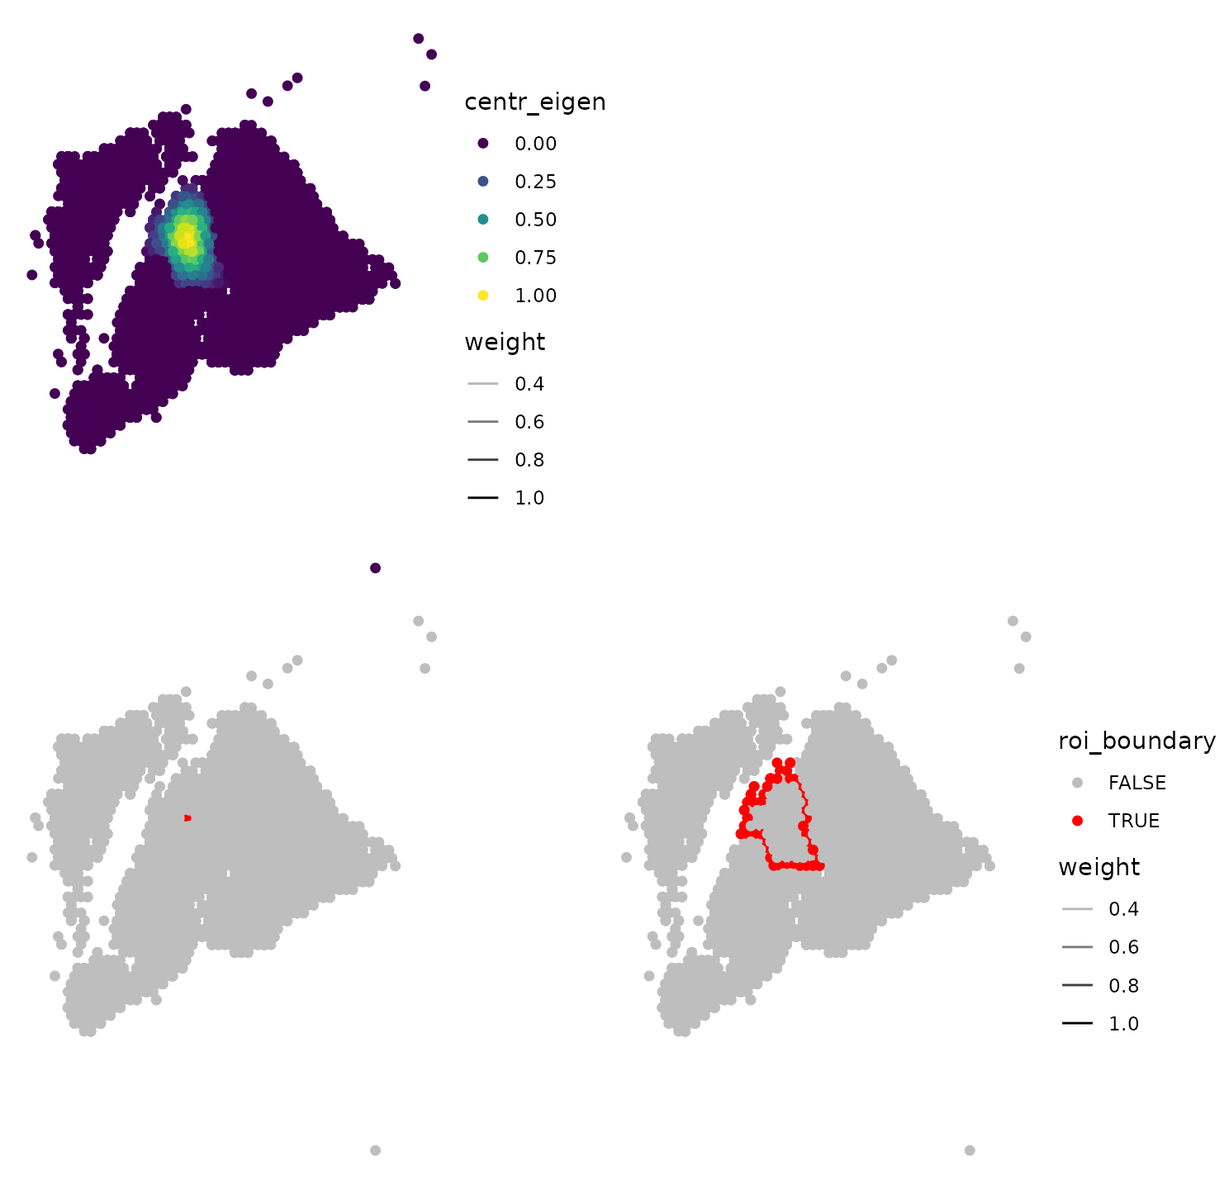
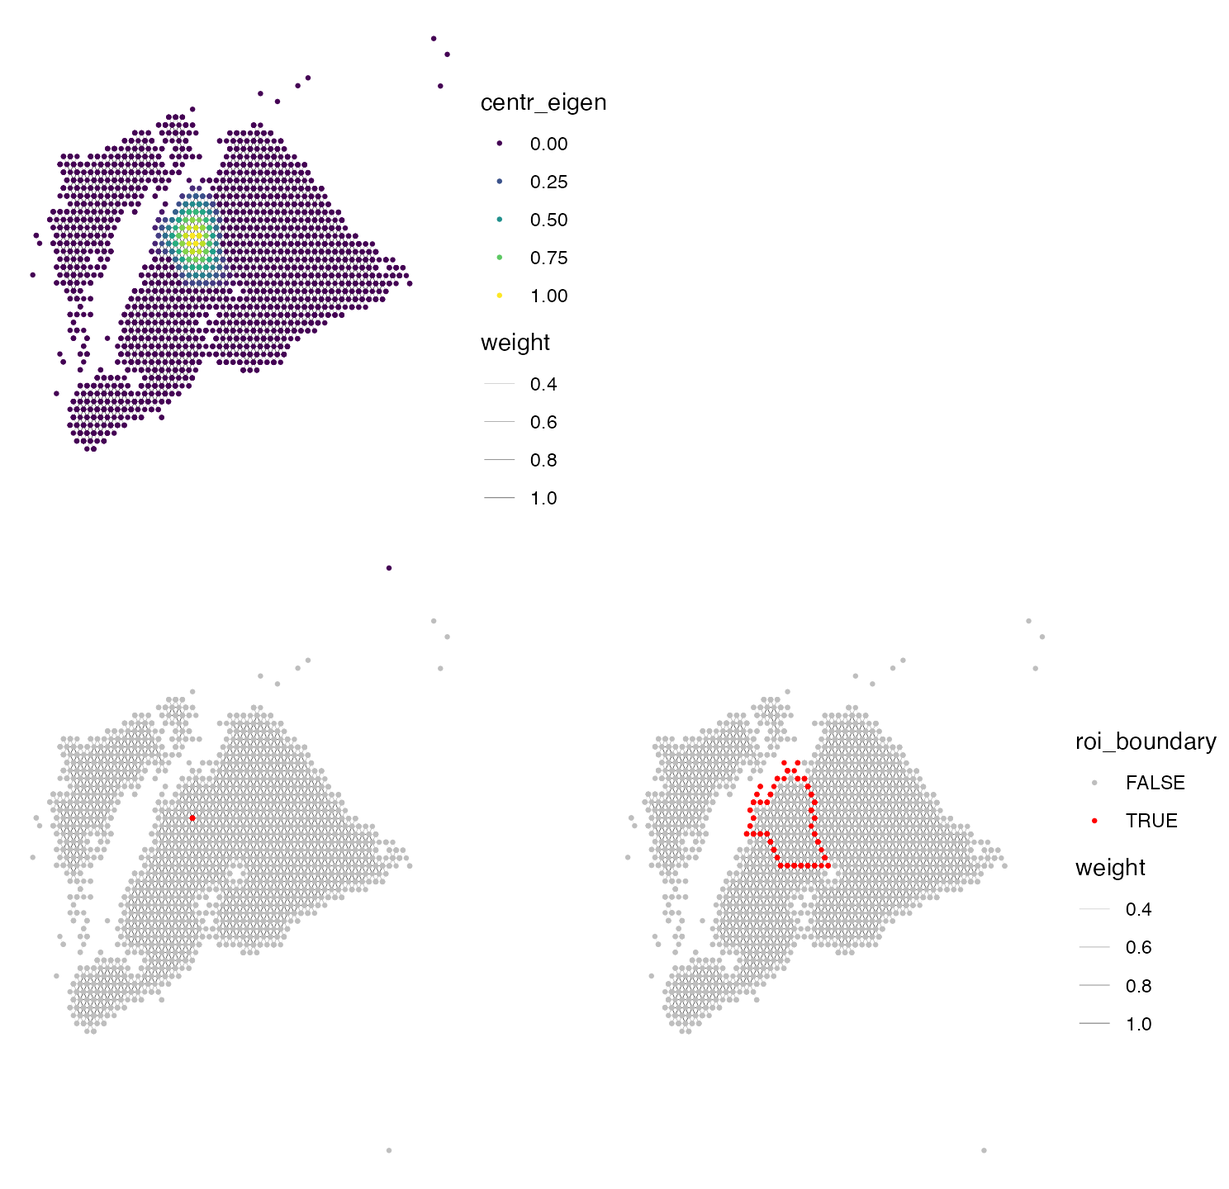
Built site for SpotGraphs@0.0.0.9000:

diff --git a/articles/NeighborhoodCenters.html b/articles/NeighborhoodCenters.html
@@ -36,7 +36,7 @@
       <ul class="navbar-nav me-auto">
 <li class="nav-item"><a class="nav-link" href="../articles/SpotGraphs.html">Get started</a></li>
 <li class="nav-item"><a class="nav-link" href="../reference/index.html">Reference</a></li>
-<li class="active nav-item dropdown">
+<li class="nav-item dropdown">
   <button class="nav-link dropdown-toggle" type="button" id="dropdown-articles" data-bs-toggle="dropdown" aria-expanded="false" aria-haspopup="true">Articles</button>
   <ul class="dropdown-menu" aria-labelledby="dropdown-articles">
 <li><a class="dropdown-item" href="../articles/NeighborhoodCenters.html">Identify centers or boundaries of some region of interest</a></li>
@@ -144,14 +144,17 @@ where <code>is_neighborhood == T</code>, and 0 where
 <span><span class="fu">igraph</span><span class="fu">::</span><span class="fu"><a href="https://r.igraph.org/reference/V.html" class="external-link">V</a></span><span class="op">(</span><span class="va">ig</span><span class="op">)</span><span class="op">$</span><span class="va">roi_center</span> <span class="op">=</span> <span class="fu"><a href="https://rdrr.io/r/base/names.html" class="external-link">names</a></span><span class="op">(</span><span class="fu">igraph</span><span class="fu">::</span><span class="fu"><a href="https://r.igraph.org/reference/V.html" class="external-link">V</a></span><span class="op">(</span><span class="va">ig</span><span class="op">)</span><span class="op">)</span> <span class="op"><a href="https://rdrr.io/r/base/match.html" class="external-link">%in%</a></span> <span class="va">res</span><span class="op">$</span><span class="va">centers</span></span>
 <span><span class="fu">igraph</span><span class="fu">::</span><span class="fu"><a href="https://r.igraph.org/reference/V.html" class="external-link">V</a></span><span class="op">(</span><span class="va">ig</span><span class="op">)</span><span class="op">$</span><span class="va">roi_boundary</span> <span class="op">=</span> <span class="fu"><a href="https://rdrr.io/r/base/names.html" class="external-link">names</a></span><span class="op">(</span><span class="fu">igraph</span><span class="fu">::</span><span class="fu"><a href="https://r.igraph.org/reference/V.html" class="external-link">V</a></span><span class="op">(</span><span class="va">ig</span><span class="op">)</span><span class="op">)</span> <span class="op"><a href="https://rdrr.io/r/base/match.html" class="external-link">%in%</a></span> <span class="va">res</span><span class="op">$</span><span class="va">boundary</span></span>
 <span></span>
-<span><span class="va">plt1</span> <span class="op">=</span> <span class="fu"><a href="../reference/SpatialPlotGraph.html">SpatialPlotGraph</a></span><span class="op">(</span><span class="va">ig</span>, group.by <span class="op">=</span> <span class="st">'centr_eigen'</span><span class="op">)</span> <span class="op">+</span></span>
+<span><span class="va">plt1</span> <span class="op">=</span> <span class="fu"><a href="../reference/SpatialPlotGraph.html">SpatialPlotGraph</a></span><span class="op">(</span><span class="va">ig</span>, group.by <span class="op">=</span> <span class="st">'centr_eigen'</span>,</span>
+<span>                        pt.size <span class="op">=</span> <span class="fl">0.5</span>, linewidth <span class="op">=</span> <span class="fl">0.1</span><span class="op">)</span> <span class="op">+</span></span>
 <span>  <span class="fu"><a href="https://sjmgarnier.github.io/viridis/reference/scale_viridis.html" class="external-link">scale_color_viridis</a></span><span class="op">(</span><span class="op">)</span> <span class="op">+</span></span>
 <span>  <span class="fu"><a href="https://ggplot2.tidyverse.org/reference/ggtheme.html" class="external-link">theme_void</a></span><span class="op">(</span><span class="op">)</span></span>
-<span><span class="va">plt2</span> <span class="op">=</span> <span class="fu"><a href="../reference/SpatialPlotGraph.html">SpatialPlotGraph</a></span><span class="op">(</span><span class="va">ig</span>, group.by <span class="op">=</span> <span class="st">'roi_center'</span><span class="op">)</span> <span class="op">+</span></span>
+<span><span class="va">plt2</span> <span class="op">=</span> <span class="fu"><a href="../reference/SpatialPlotGraph.html">SpatialPlotGraph</a></span><span class="op">(</span><span class="va">ig</span>, group.by <span class="op">=</span> <span class="st">'roi_center'</span>,</span>
+<span>                        pt.size <span class="op">=</span> <span class="fl">0.5</span>, linewidth <span class="op">=</span> <span class="fl">0.1</span><span class="op">)</span> <span class="op">+</span></span>
 <span>  <span class="fu"><a href="https://ggplot2.tidyverse.org/reference/scale_manual.html" class="external-link">scale_color_manual</a></span><span class="op">(</span>values <span class="op">=</span> <span class="fu"><a href="https://rdrr.io/r/base/c.html" class="external-link">c</a></span><span class="op">(</span><span class="st">'grey'</span>, <span class="st">'red'</span><span class="op">)</span><span class="op">)</span> <span class="op">+</span></span>
 <span>  <span class="fu"><a href="https://ggplot2.tidyverse.org/reference/ggtheme.html" class="external-link">theme_void</a></span><span class="op">(</span><span class="op">)</span> <span class="op">+</span></span>
 <span>  <span class="fu"><a href="https://ggplot2.tidyverse.org/reference/theme.html" class="external-link">theme</a></span><span class="op">(</span>legend.position <span class="op">=</span> <span class="st">'none'</span><span class="op">)</span></span>
-<span><span class="va">plt3</span> <span class="op">=</span> <span class="fu"><a href="../reference/SpatialPlotGraph.html">SpatialPlotGraph</a></span><span class="op">(</span><span class="va">ig</span>, group.by <span class="op">=</span> <span class="st">'roi_boundary'</span><span class="op">)</span> <span class="op">+</span></span>
+<span><span class="va">plt3</span> <span class="op">=</span> <span class="fu"><a href="../reference/SpatialPlotGraph.html">SpatialPlotGraph</a></span><span class="op">(</span><span class="va">ig</span>, group.by <span class="op">=</span> <span class="st">'roi_boundary'</span>, </span>
+<span>                        pt.size <span class="op">=</span> <span class="fl">0.5</span>, linewidth <span class="op">=</span> <span class="fl">0.1</span><span class="op">)</span> <span class="op">+</span></span>
 <span>  <span class="fu"><a href="https://ggplot2.tidyverse.org/reference/scale_manual.html" class="external-link">scale_color_manual</a></span><span class="op">(</span>values <span class="op">=</span> <span class="fu"><a href="https://rdrr.io/r/base/c.html" class="external-link">c</a></span><span class="op">(</span><span class="st">'grey'</span>, <span class="st">'red'</span><span class="op">)</span><span class="op">)</span> <span class="op">+</span></span>
 <span>  <span class="fu"><a href="https://ggplot2.tidyverse.org/reference/ggtheme.html" class="external-link">theme_void</a></span><span class="op">(</span><span class="op">)</span></span>
 <span></span>
@@ -178,19 +181,54 @@ regions of interest, instead of just one.</p>
 <span><span class="fu">igraph</span><span class="fu">::</span><span class="fu"><a href="https://r.igraph.org/reference/V.html" class="external-link">V</a></span><span class="op">(</span><span class="va">ig</span><span class="op">)</span><span class="op">$</span><span class="va">roi_center</span> <span class="op">=</span> <span class="fu"><a href="https://rdrr.io/r/base/names.html" class="external-link">names</a></span><span class="op">(</span><span class="fu">igraph</span><span class="fu">::</span><span class="fu"><a href="https://r.igraph.org/reference/V.html" class="external-link">V</a></span><span class="op">(</span><span class="va">ig</span><span class="op">)</span><span class="op">)</span> <span class="op"><a href="https://rdrr.io/r/base/match.html" class="external-link">%in%</a></span> <span class="va">res</span><span class="op">$</span><span class="va">centers</span></span>
 <span><span class="fu">igraph</span><span class="fu">::</span><span class="fu"><a href="https://r.igraph.org/reference/V.html" class="external-link">V</a></span><span class="op">(</span><span class="va">ig</span><span class="op">)</span><span class="op">$</span><span class="va">roi_boundary</span> <span class="op">=</span> <span class="fu"><a href="https://rdrr.io/r/base/names.html" class="external-link">names</a></span><span class="op">(</span><span class="fu">igraph</span><span class="fu">::</span><span class="fu"><a href="https://r.igraph.org/reference/V.html" class="external-link">V</a></span><span class="op">(</span><span class="va">ig</span><span class="op">)</span><span class="op">)</span> <span class="op"><a href="https://rdrr.io/r/base/match.html" class="external-link">%in%</a></span> <span class="va">res</span><span class="op">$</span><span class="va">boundary</span></span>
 <span></span>
-<span><span class="va">plt1</span> <span class="op">=</span> <span class="fu"><a href="../reference/SpatialPlotGraph.html">SpatialPlotGraph</a></span><span class="op">(</span><span class="va">ig</span>, group.by <span class="op">=</span> <span class="st">'centr_eigen'</span><span class="op">)</span> <span class="op">+</span></span>
+<span><span class="va">plt1</span> <span class="op">=</span> <span class="fu"><a href="../reference/SpatialPlotGraph.html">SpatialPlotGraph</a></span><span class="op">(</span><span class="va">ig</span>, group.by <span class="op">=</span> <span class="st">'centr_eigen'</span>, </span>
+<span>                        pt.size <span class="op">=</span> <span class="fl">0.5</span>, linewidth <span class="op">=</span> <span class="fl">0.1</span><span class="op">)</span> <span class="op">+</span></span>
 <span>  <span class="fu"><a href="https://sjmgarnier.github.io/viridis/reference/scale_viridis.html" class="external-link">scale_color_viridis</a></span><span class="op">(</span><span class="op">)</span> <span class="op">+</span></span>
 <span>  <span class="fu"><a href="https://ggplot2.tidyverse.org/reference/ggtheme.html" class="external-link">theme_void</a></span><span class="op">(</span><span class="op">)</span></span>
-<span><span class="va">plt2</span> <span class="op">=</span> <span class="fu"><a href="../reference/SpatialPlotGraph.html">SpatialPlotGraph</a></span><span class="op">(</span><span class="va">ig</span>, group.by <span class="op">=</span> <span class="st">'roi_center'</span><span class="op">)</span> <span class="op">+</span></span>
+<span><span class="va">plt2</span> <span class="op">=</span> <span class="fu"><a href="../reference/SpatialPlotGraph.html">SpatialPlotGraph</a></span><span class="op">(</span><span class="va">ig</span>, group.by <span class="op">=</span> <span class="st">'roi_center'</span>, </span>
+<span>                        pt.size <span class="op">=</span> <span class="fl">0.5</span>, linewidth <span class="op">=</span> <span class="fl">0.1</span><span class="op">)</span> <span class="op">+</span></span>
 <span>  <span class="fu"><a href="https://ggplot2.tidyverse.org/reference/scale_manual.html" class="external-link">scale_color_manual</a></span><span class="op">(</span>values <span class="op">=</span> <span class="fu"><a href="https://rdrr.io/r/base/c.html" class="external-link">c</a></span><span class="op">(</span><span class="st">'grey'</span>, <span class="st">'red'</span><span class="op">)</span><span class="op">)</span> <span class="op">+</span></span>
 <span>  <span class="fu"><a href="https://ggplot2.tidyverse.org/reference/ggtheme.html" class="external-link">theme_void</a></span><span class="op">(</span><span class="op">)</span> <span class="op">+</span></span>
 <span>  <span class="fu"><a href="https://ggplot2.tidyverse.org/reference/theme.html" class="external-link">theme</a></span><span class="op">(</span>legend.position <span class="op">=</span> <span class="st">'none'</span><span class="op">)</span></span>
-<span><span class="va">plt3</span> <span class="op">=</span> <span class="fu"><a href="../reference/SpatialPlotGraph.html">SpatialPlotGraph</a></span><span class="op">(</span><span class="va">ig</span>, group.by <span class="op">=</span> <span class="st">'roi_boundary'</span><span class="op">)</span> <span class="op">+</span></span>
+<span><span class="va">plt3</span> <span class="op">=</span> <span class="fu"><a href="../reference/SpatialPlotGraph.html">SpatialPlotGraph</a></span><span class="op">(</span><span class="va">ig</span>, group.by <span class="op">=</span> <span class="st">'roi_boundary'</span>, </span>
+<span>                        pt.size <span class="op">=</span> <span class="fl">0.5</span>, linewidth <span class="op">=</span> <span class="fl">0.1</span><span class="op">)</span> <span class="op">+</span></span>
 <span>  <span class="fu"><a href="https://ggplot2.tidyverse.org/reference/scale_manual.html" class="external-link">scale_color_manual</a></span><span class="op">(</span>values <span class="op">=</span> <span class="fu"><a href="https://rdrr.io/r/base/c.html" class="external-link">c</a></span><span class="op">(</span><span class="st">'grey'</span>, <span class="st">'red'</span><span class="op">)</span><span class="op">)</span> <span class="op">+</span></span>
 <span>  <span class="fu"><a href="https://ggplot2.tidyverse.org/reference/ggtheme.html" class="external-link">theme_void</a></span><span class="op">(</span><span class="op">)</span></span>
 <span></span>
 <span><span class="fu"><a href="https://patchwork.data-imaginist.com/reference/wrap_plots.html" class="external-link">wrap_plots</a></span><span class="op">(</span><span class="va">plt1</span>, <span class="va">plt2</span>, <span class="va">plt3</span>, design <span class="op">=</span> <span class="st">'A#\nBC'</span><span class="op">)</span></span></code></pre></div>
-<p><img src="NeighborhoodCenters_files/figure-html/unnamed-chunk-2-1.png" width="744"></p>
+<p><img src="NeighborhoodCenters_files/figure-html/multiple%20region%20plotting-1.png" width="744"></p>
+</div>
+<div class="section level2">
+<h2 id="calculate-distance-between-each-spot-and-roi-center">5. Calculate distance between each spot and ROI center<a class="anchor" aria-label="anchor" href="#calculate-distance-between-each-spot-and-roi-center"></a>
+</h2>
+<div class="sourceCode" id="cb8"><pre class="downlit sourceCode r">
+<code class="sourceCode R"><span><span class="va">roi_dist</span> <span class="op">=</span> <span class="fu">igraph</span><span class="fu">::</span><span class="fu"><a href="https://r.igraph.org/reference/distances.html" class="external-link">distances</a></span><span class="op">(</span><span class="va">ig</span>, weights <span class="op">=</span> <span class="cn">NA</span><span class="op">)</span><span class="op">[</span>,<span class="va">res</span><span class="op">$</span><span class="va">centers</span><span class="op">]</span> <span class="op"><a href="../reference/pipe.html">%&gt;%</a></span> </span>
+<span>  <span class="fu"><a href="https://rdrr.io/r/base/apply.html" class="external-link">apply</a></span><span class="op">(</span><span class="fl">1</span>, <span class="va">min</span><span class="op">)</span></span>
+<span><span class="va">boundary_dist</span> <span class="op">=</span> <span class="fu">igraph</span><span class="fu">::</span><span class="fu"><a href="https://r.igraph.org/reference/distances.html" class="external-link">distances</a></span><span class="op">(</span><span class="va">ig</span>, weights <span class="op">=</span> <span class="cn">NA</span><span class="op">)</span><span class="op">[</span>,<span class="va">res</span><span class="op">$</span><span class="va">boundary</span><span class="op">]</span> <span class="op"><a href="../reference/pipe.html">%&gt;%</a></span> </span>
+<span>  <span class="fu"><a href="https://rdrr.io/r/base/apply.html" class="external-link">apply</a></span><span class="op">(</span><span class="fl">1</span>, <span class="va">min</span><span class="op">)</span></span>
+<span><span class="co"># boundary_dist = ifelse(!roi, boundary_dist, 0)</span></span>
+<span></span>
+<span><span class="fu">igraph</span><span class="fu">::</span><span class="fu"><a href="https://r.igraph.org/reference/V.html" class="external-link">V</a></span><span class="op">(</span><span class="va">ig</span><span class="op">)</span><span class="op">$</span><span class="va">roi_dist</span> <span class="op">=</span> <span class="va">roi_dist</span></span>
+<span><span class="fu">igraph</span><span class="fu">::</span><span class="fu"><a href="https://r.igraph.org/reference/V.html" class="external-link">V</a></span><span class="op">(</span><span class="va">ig</span><span class="op">)</span><span class="op">$</span><span class="va">boundary_dist</span> <span class="op">=</span> <span class="va">boundary_dist</span></span>
+<span></span>
+<span><span class="va">plt.dist</span> <span class="op">=</span> <span class="fu"><a href="../reference/SpatialPlotGraph.html">SpatialPlotGraph</a></span><span class="op">(</span><span class="va">ig</span>, group.by <span class="op">=</span> <span class="st">'roi_dist'</span>,</span>
+<span>                 pt.size <span class="op">=</span> <span class="fl">0.5</span>, linewidth <span class="op">=</span> <span class="fl">0.1</span><span class="op">)</span> <span class="op">+</span></span>
+<span>  <span class="fu"><a href="https://ggplot2.tidyverse.org/reference/scale_brewer.html" class="external-link">scale_color_distiller</a></span><span class="op">(</span>palette <span class="op">=</span> <span class="st">'RdBu'</span>, direction <span class="op">=</span> <span class="fl">1</span><span class="op">)</span> <span class="op">+</span></span>
+<span>  <span class="fu"><a href="https://ggplot2.tidyverse.org/reference/labs.html" class="external-link">ggtitle</a></span><span class="op">(</span><span class="st">'distance to ROI centers'</span><span class="op">)</span> <span class="op">+</span></span>
+<span>  <span class="fu"><a href="https://ggplot2.tidyverse.org/reference/ggtheme.html" class="external-link">theme_void</a></span><span class="op">(</span><span class="op">)</span> <span class="op">+</span></span>
+<span>  <span class="fu"><a href="https://ggplot2.tidyverse.org/reference/theme.html" class="external-link">theme</a></span><span class="op">(</span>plot.title <span class="op">=</span> <span class="fu"><a href="https://ggplot2.tidyverse.org/reference/element.html" class="external-link">element_text</a></span><span class="op">(</span>hjust <span class="op">=</span> <span class="fl">0.5</span>, face <span class="op">=</span> <span class="st">'bold'</span><span class="op">)</span>,</span>
+<span>        legend.position <span class="op">=</span> <span class="st">'none'</span><span class="op">)</span></span>
+<span><span class="va">plt.boundarydist</span> <span class="op">=</span> <span class="fu"><a href="../reference/SpatialPlotGraph.html">SpatialPlotGraph</a></span><span class="op">(</span><span class="va">ig</span>, group.by <span class="op">=</span> <span class="st">'boundary_dist'</span>,</span>
+<span>                 pt.size <span class="op">=</span> <span class="fl">0.5</span>, linewidth <span class="op">=</span> <span class="fl">0.1</span><span class="op">)</span> <span class="op">+</span></span>
+<span>  <span class="fu"><a href="https://ggplot2.tidyverse.org/reference/scale_brewer.html" class="external-link">scale_color_distiller</a></span><span class="op">(</span>palette <span class="op">=</span> <span class="st">'RdBu'</span>, direction <span class="op">=</span> <span class="fl">1</span><span class="op">)</span> <span class="op">+</span></span>
+<span>  <span class="fu"><a href="https://ggplot2.tidyverse.org/reference/labs.html" class="external-link">ggtitle</a></span><span class="op">(</span><span class="st">'distance to ROI boundaries'</span><span class="op">)</span> <span class="op">+</span></span>
+<span>  <span class="fu"><a href="https://ggplot2.tidyverse.org/reference/guides.html" class="external-link">guides</a></span><span class="op">(</span>color <span class="op">=</span> <span class="fu"><a href="https://ggplot2.tidyverse.org/reference/guide_colourbar.html" class="external-link">guide_colorbar</a></span><span class="op">(</span>title <span class="op">=</span> <span class="st">'distance'</span><span class="op">)</span>,</span>
+<span>         alpha <span class="op">=</span> <span class="fu"><a href="https://ggplot2.tidyverse.org/reference/guide_none.html" class="external-link">guide_none</a></span><span class="op">(</span><span class="op">)</span><span class="op">)</span> <span class="op">+</span></span>
+<span>  <span class="fu"><a href="https://ggplot2.tidyverse.org/reference/ggtheme.html" class="external-link">theme_void</a></span><span class="op">(</span><span class="op">)</span> <span class="op">+</span></span>
+<span>  <span class="fu"><a href="https://ggplot2.tidyverse.org/reference/theme.html" class="external-link">theme</a></span><span class="op">(</span>plot.title <span class="op">=</span> <span class="fu"><a href="https://ggplot2.tidyverse.org/reference/element.html" class="external-link">element_text</a></span><span class="op">(</span>hjust <span class="op">=</span> <span class="fl">0.5</span>, face <span class="op">=</span> <span class="st">'bold'</span><span class="op">)</span><span class="op">)</span></span>
+<span></span>
+<span><span class="fu"><a href="https://patchwork.data-imaginist.com/reference/wrap_plots.html" class="external-link">wrap_plots</a></span><span class="op">(</span><span class="va">plt.dist</span>, <span class="va">plt.boundarydist</span>, nrow <span class="op">=</span> <span class="fl">1</span><span class="op">)</span></span></code></pre></div>
+<p><img src="NeighborhoodCenters_files/figure-html/ROI%20distances-1.png" width="768"></p>
 </div>
   </main><aside class="col-md-3"><nav id="toc" aria-label="Table of contents"><h2>On this page</h2>
     </nav></aside>

diff --git a/articles/SpotGraphs.html b/articles/SpotGraphs.html
@@ -34,7 +34,7 @@
 
     <div id="navbar" class="collapse navbar-collapse ms-3">
       <ul class="navbar-nav me-auto">
-<li class="active nav-item"><a class="nav-link" href="../articles/SpotGraphs.html">Get started</a></li>
+<li class="nav-item"><a class="nav-link" href="../articles/SpotGraphs.html">Get started</a></li>
 <li class="nav-item"><a class="nav-link" href="../reference/index.html">Reference</a></li>
 <li class="nav-item dropdown">
   <button class="nav-link dropdown-toggle" type="button" id="dropdown-articles" data-bs-toggle="dropdown" aria-expanded="false" aria-haspopup="true">Articles</button>
@@ -124,10 +124,10 @@ the spots on our slide.</p>
 <span></span>
 <span><span class="va">ig</span> <span class="op">=</span> <span class="fu"><a href="../reference/SpotGraph.html">SpotGraph</a></span><span class="op">(</span>coord <span class="op">=</span> <span class="va">coord</span><span class="op">)</span></span>
 <span><span class="va">ig</span></span>
-<span><span class="co">#&gt; IGRAPH 36393e5 UNW- 1185 3189 -- </span></span>
+<span><span class="co">#&gt; IGRAPH 1fd88ed UNW- 1185 3189 -- </span></span>
 <span><span class="co">#&gt; + attr: name (v/c), coord_x (v/n), coord_y (v/n), is_boundary (v/l),</span></span>
 <span><span class="co">#&gt; | weight (e/n)</span></span>
-<span><span class="co">#&gt; + edges from 36393e5 (vertex names):</span></span>
+<span><span class="co">#&gt; + edges from 1fd88ed (vertex names):</span></span>
 <span><span class="co">#&gt;  [1] AAACACCAATAACTGC-1--AGGCGGTTTGTCCCGC-1</span></span>
 <span><span class="co">#&gt;  [2] AAACACCAATAACTGC-1--CTCGTCGAGGGCTCAT-1</span></span>
 <span><span class="co">#&gt;  [3] AAACACCAATAACTGC-1--GAAACATAGGAAACAG-1</span></span>

diff --git a/articles/QuickStart.html b/articles/QuickStart.html
@@ -36,7 +36,7 @@
       <ul class="navbar-nav me-auto">
 <li class="nav-item"><a class="nav-link" href="../articles/SpotGraphs.html">Get started</a></li>
 <li class="nav-item"><a class="nav-link" href="../reference/index.html">Reference</a></li>
-<li class="active nav-item dropdown">
+<li class="nav-item dropdown">
   <button class="nav-link dropdown-toggle" type="button" id="dropdown-articles" data-bs-toggle="dropdown" aria-expanded="false" aria-haspopup="true">Articles</button>
   <ul class="dropdown-menu" aria-labelledby="dropdown-articles">
 <li><a class="dropdown-item" href="../articles/NeighborhoodCenters.html">Identify centers or boundaries of some region of interest</a></li>

diff --git a/articles/ThresholdTests.html b/articles/ThresholdTests.html
@@ -36,7 +36,7 @@
       <ul class="navbar-nav me-auto">
 <li class="nav-item"><a class="nav-link" href="../articles/SpotGraphs.html">Get started</a></li>
 <li class="nav-item"><a class="nav-link" href="../reference/index.html">Reference</a></li>
-<li class="active nav-item dropdown">
+<li class="nav-item dropdown">
   <button class="nav-link dropdown-toggle" type="button" id="dropdown-articles" data-bs-toggle="dropdown" aria-expanded="false" aria-haspopup="true">Articles</button>
   <ul class="dropdown-menu" aria-labelledby="dropdown-articles">
 <li><a class="dropdown-item" href="../articles/NeighborhoodCenters.html">Identify centers or boundaries of some region of interest</a></li>
